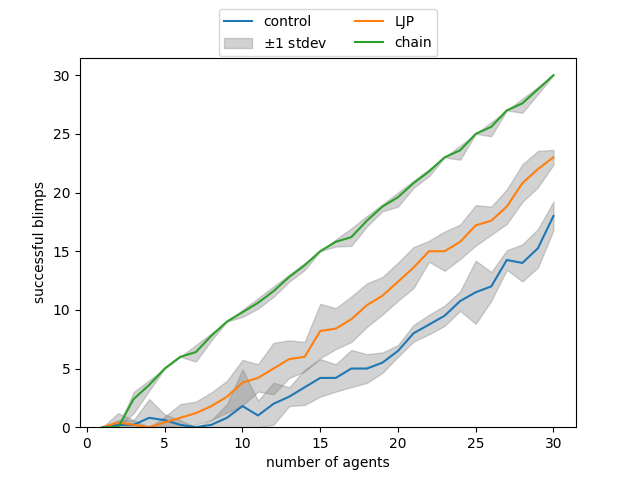
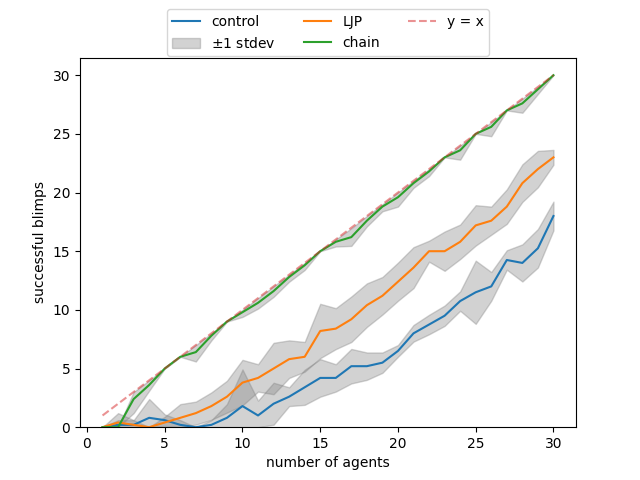
update

diff --git a/chain_siphon/graphs.py b/chain_siphon/graphs.py
@@ -14,7 +14,7 @@ ROOT = os.path.join(CHAIN_DIR, RT)
 
 CONF_INT = -1  # either the percent confidence interval, or negative number for # of stdev to show
 EXCLUDED = [
-    'max',
+    # 'max',
     # 'control',
     # 'chain',
     # 'LJP',
@@ -36,9 +36,6 @@ for (plotting, PROP) in (('failed', False), ('failed', True), ('successful', Fal
     else:
         plotting = 'successful'
         y_ax = 'successful'
-    if 'max' not in EXCLUDED:
-        plt.plot(VALUES, [(1 if PROP else i) for i in VALUES], '-', alpha=.5, color='green', label='y = x')
-        legend_entries += 1
     for folder in os.listdir(ROOT):
         if folder in EXCLUDED:
             continue
@@ -77,8 +74,9 @@ for (plotting, PROP) in (('failed', False), ('failed', True), ('successful', Fal
                 bar_label = str(CONF_INT) + '% conf. int'
             low = np.max((y - conf, [0 for _ in range(len(y))]), axis=0)
             high = np.min((y + conf, [(1 if PROP else i) for i in range(1, 1 + len(y))]), axis=0)
-            plt.fill_between(keys, low, high, alpha=.35, color='gray',
-                             label=bar_label
+            plt.fill_between(keys, low, high,
+                             alpha=.35,
+                             color='gray', label=bar_label
                              )
             if bar_label is not None:
                 legend_entries += 1
@@ -94,8 +92,9 @@ for (plotting, PROP) in (('failed', False), ('failed', True), ('successful', Fal
 
             low = np.max((y - conf, [0 for _ in range(len(y))]), axis=0)
             high = np.min((y + conf, [(1 if PROP else i) for i in range(1, 1 + len(y))]), axis=0)
-            plt.fill_between(keys, low, high, alpha=.35, color='gray',
-                             label=bar_label
+            plt.fill_between(keys, low, high,
+                             alpha=.35,
+                             color='gray', label=bar_label
                              )
             if bar_label is not None:
                 legend_entries += 1
@@ -121,6 +120,12 @@ for (plotting, PROP) in (('failed', False), ('failed', True), ('successful', Fal
             legend_entries += 1
             # leg.append(('y = {0}*x' + (' + ' if b > 0 else ' ') + '{1}').format(round(m, ROUND), round(b, ROUND)))
 
+    if 'max' not in EXCLUDED:
+        plt.plot(VALUES, [(1 if PROP else i) for i in VALUES], '--',
+                 alpha=.5,
+                 # color='green',
+                 label='y = x')
+        legend_entries += 1
     plt.xlabel('number of agents')
 
     plt.ylabel(('prop of ' if PROP else '') + y_ax + ' blimps')
@@ -128,7 +133,7 @@ for (plotting, PROP) in (('failed', False), ('failed', True), ('successful', Fal
     plt.legend(  # + leg_fill[0:1],
         # loc=('lower right' if PROP else 'upper left')
         # loc='center right', bbox_to_anchor=(1.2, .5),ncol=3,
-        loc='upper center', bbox_to_anchor=(0.5, 1.15), ncol=legend_entries//2
+        loc='upper center', bbox_to_anchor=(0.5, 1.15), ncol=int(np.ceil(legend_entries/2))
     )
     save_file = os.path.join(OUTPUT_DIR, ('prop_' if PROP else '') + y_ax + '_rate.png')
     if not os.path.exists(os.path.dirname(save_file)):
